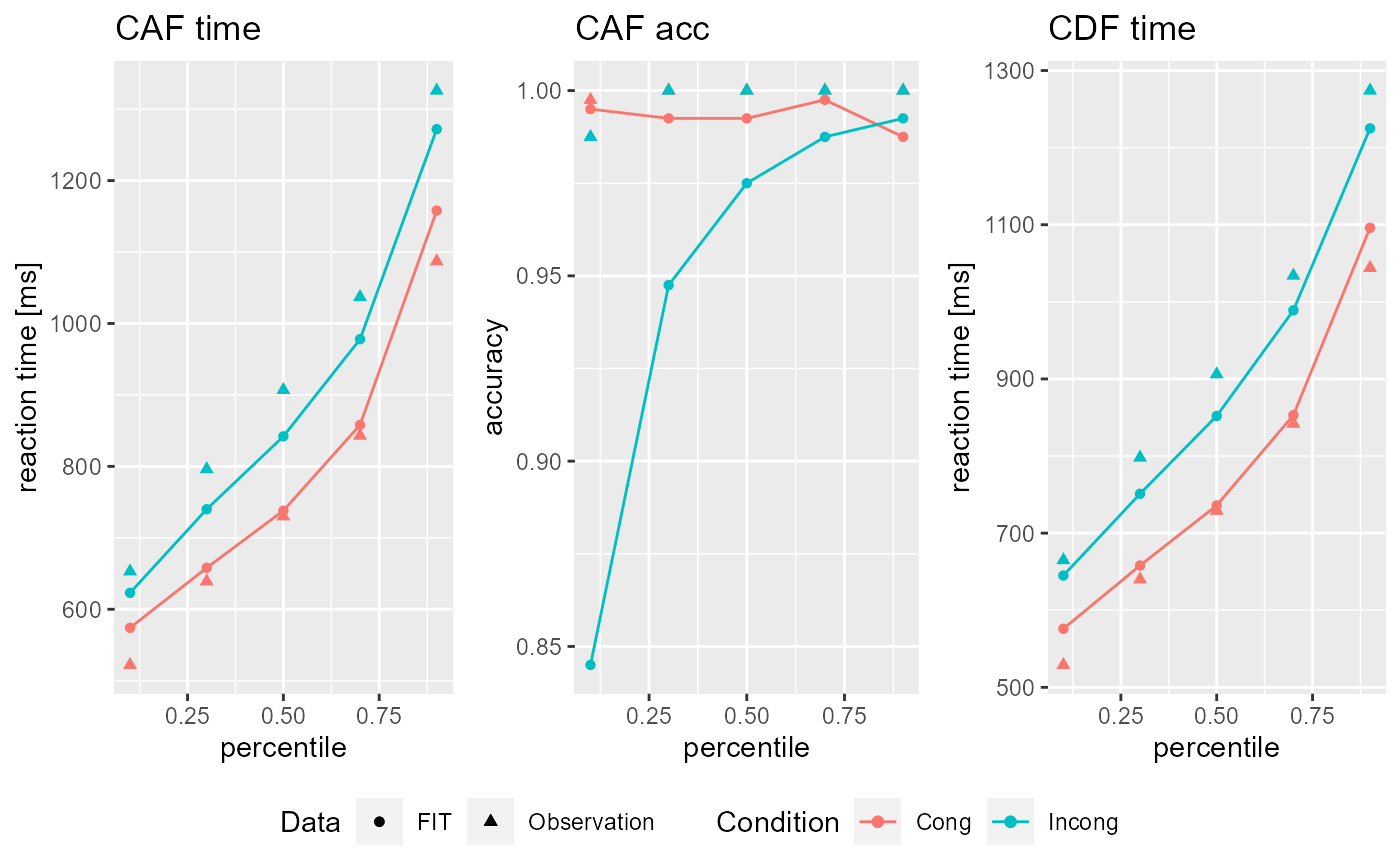
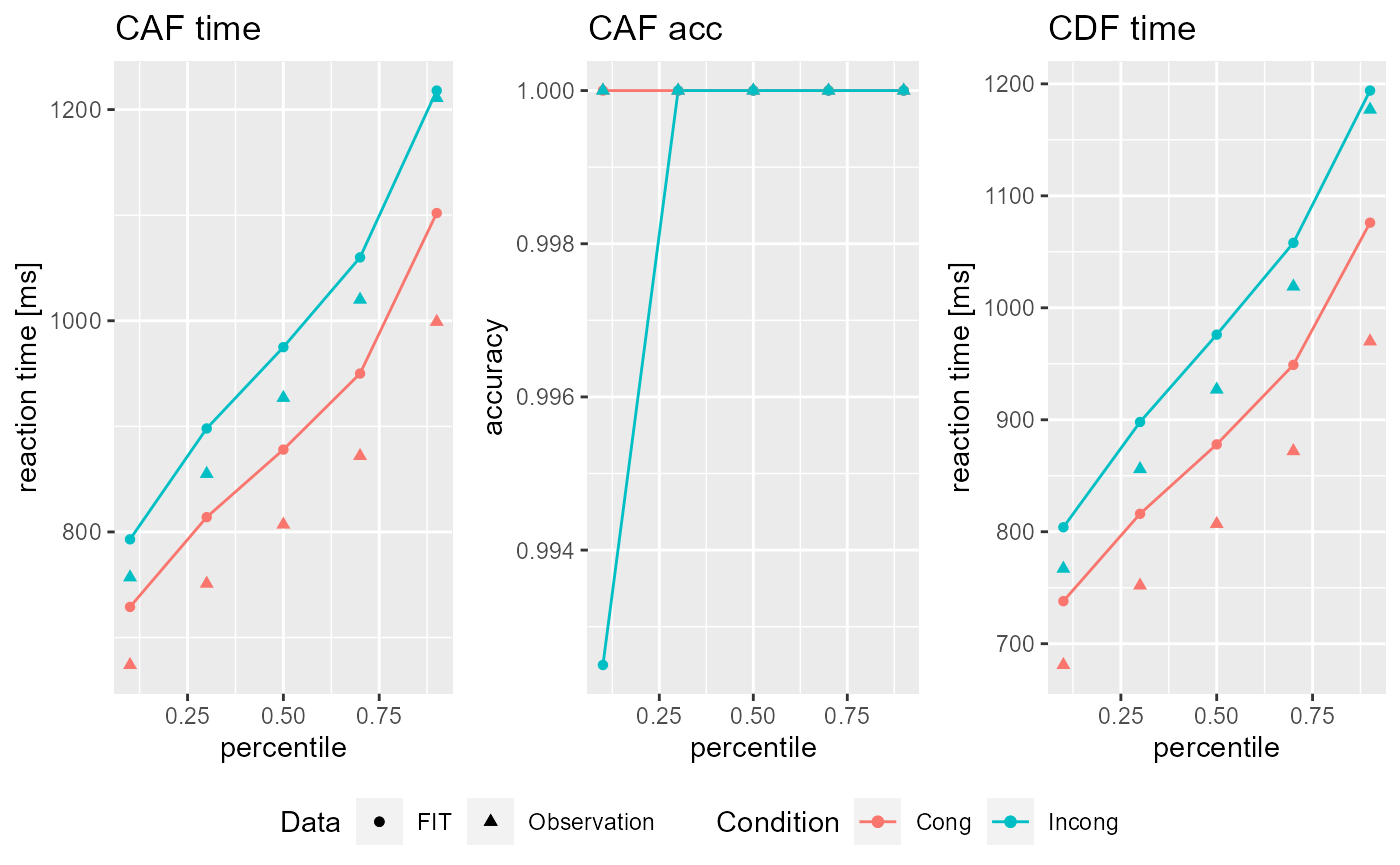
misc

diff --git a/docs/reference/DDModel.html b/docs/reference/DDModel.html
@@ -210,14 +210,14 @@ in the constructor (see usage or examples). Moreso after model construction one 
 your model befor computation. Custom models should only be used, if one knows exactly what he is doing!</p>
 
     <h2 class="hasAnchor" id="examples"><a class="anchor" href="#examples"></a>Examples</h2>
-    <pre class="examples"><div class='input'><span class='va'>M_DSTP</span> <span class='op'>&lt;-</span> <span class='fu'>DDModel</span><span class='op'>(</span>model<span class='op'>=</span><span class='st'>"DSTP"</span>,task <span class='op'>=</span> <span class='st'>"flanker"</span>,
+    <pre class="examples"><span class='va'>M_DSTP</span> <span class='op'>&lt;-</span> <span class='fu'>DDModel</span><span class='op'>(</span>model<span class='op'>=</span><span class='st'>"DSTP"</span>,task <span class='op'>=</span> <span class='st'>"flanker"</span>,
           CDF_perc <span class='op'>=</span> <span class='fu'><a href='https://rdrr.io/r/base/c.html'>c</a></span><span class='op'>(</span><span class='fl'>0.1</span>,<span class='fl'>0.3</span>,<span class='fl'>0.5</span>,<span class='fl'>0.7</span>,<span class='fl'>0.9</span><span class='op'>)</span>,CAF_perc <span class='op'>=</span> <span class='fu'><a href='https://rdrr.io/r/base/c.html'>c</a></span><span class='op'>(</span><span class='fl'>0.0</span>,<span class='fl'>0.2</span>,<span class='fl'>0.4</span>,<span class='fl'>0.6</span>,<span class='fl'>0.8</span>,<span class='fl'>1.0</span><span class='op'>)</span><span class='op'>)</span>
 <span class='va'>M_DMC</span>  <span class='op'>&lt;-</span> <span class='fu'>DDModel</span><span class='op'>(</span>model<span class='op'>=</span><span class='st'>"DMC"</span>,task <span class='op'>=</span> <span class='st'>"flanker"</span>,
           CDF_perc <span class='op'>=</span> <span class='fu'><a href='https://rdrr.io/r/base/c.html'>c</a></span><span class='op'>(</span><span class='fl'>0.1</span>,<span class='fl'>0.3</span>,<span class='fl'>0.5</span>,<span class='fl'>0.7</span>,<span class='fl'>0.9</span><span class='op'>)</span>,CAF_perc <span class='op'>=</span> <span class='fu'><a href='https://rdrr.io/r/base/c.html'>c</a></span><span class='op'>(</span><span class='fl'>0.0</span>,<span class='fl'>0.2</span>,<span class='fl'>0.4</span>,<span class='fl'>0.6</span>,<span class='fl'>0.8</span>,<span class='fl'>1.0</span><span class='op'>)</span><span class='op'>)</span>
 <span class='va'>M_Custom</span> <span class='op'>&lt;-</span> <span class='fu'>DDModel</span><span class='op'>(</span>model<span class='op'>=</span><span class='st'>"DSTP"</span>,task<span class='op'>=</span><span class='st'>"custom"</span>,
           CDF_perc <span class='op'>=</span> <span class='fu'><a href='https://rdrr.io/r/base/c.html'>c</a></span><span class='op'>(</span><span class='fl'>0.1</span>,<span class='fl'>0.3</span>,<span class='fl'>0.5</span>,<span class='fl'>0.7</span>,<span class='fl'>0.9</span><span class='op'>)</span>,CAF_perc <span class='op'>=</span> <span class='fu'><a href='https://rdrr.io/r/base/c.html'>c</a></span><span class='op'>(</span><span class='fl'>0.0</span>,<span class='fl'>0.2</span>,<span class='fl'>0.4</span>,<span class='fl'>0.6</span>,<span class='fl'>0.8</span>,<span class='fl'>1.0</span><span class='op'>)</span>,
           conditions<span class='op'>=</span><span class='st'>"single"</span>,parameter<span class='op'>=</span><span class='fu'><a href='https://rdrr.io/r/base/c.html'>c</a></span><span class='op'>(</span><span class='st'>"par_1"</span>,<span class='st'>"par_2"</span><span class='op'>)</span>,dt<span class='op'>=</span><span class='fl'>0.001</span>,sigma<span class='op'>=</span><span class='fl'>0.1</span><span class='op'>)</span>
-</div></pre>
+</pre>
   </div>
   <div class="col-md-3 hidden-xs hidden-sm" id="pkgdown-sidebar">
     <nav id="toc" data-toggle="toc" class="sticky-top">

diff --git a/docs/articles/Tutorials/Model_simulation.html b/docs/articles/Tutorials/Model_simulation.html
@@ -127,42 +127,42 @@
 <span class="co">#&gt; CDF: </span>
 <span class="co">#&gt; $Cong</span>
 <span class="co">#&gt;   cond perc time   N</span>
-<span class="co">#&gt; 1 Cong  0.1  270  99</span>
-<span class="co">#&gt; 2 Cong  0.3  321 297</span>
-<span class="co">#&gt; 3 Cong  0.5  377 496</span>
-<span class="co">#&gt; 4 Cong  0.7  452 695</span>
-<span class="co">#&gt; 5 Cong  0.9  630 893</span>
+<span class="co">#&gt; 1 Cong  0.1  413 100</span>
+<span class="co">#&gt; 2 Cong  0.3  470 300</span>
+<span class="co">#&gt; 3 Cong  0.5  523 500</span>
+<span class="co">#&gt; 4 Cong  0.7  589 700</span>
+<span class="co">#&gt; 5 Cong  0.9  676 900</span>
 <span class="co">#&gt; </span>
 <span class="co">#&gt; $Incong</span>
 <span class="co">#&gt;     cond perc time   N</span>
-<span class="co">#&gt; 1 Incong  0.1  471  59</span>
-<span class="co">#&gt; 2 Incong  0.3  595 179</span>
-<span class="co">#&gt; 3 Incong  0.5  698 298</span>
-<span class="co">#&gt; 4 Incong  0.7  810 417</span>
-<span class="co">#&gt; 5 Incong  0.9 1024 537</span>
+<span class="co">#&gt; 1 Incong  0.1  532  94</span>
+<span class="co">#&gt; 2 Incong  0.3  611 282</span>
+<span class="co">#&gt; 3 Incong  0.5  675 471</span>
+<span class="co">#&gt; 4 Incong  0.7  745 660</span>
+<span class="co">#&gt; 5 Incong  0.9  857 848</span>
 <span class="co">#&gt; </span>
 <span class="co">#&gt; </span>
 <span class="co">#&gt; CAF: </span>
 <span class="co">#&gt; $Cong</span>
-<span class="co">#&gt;   cond perc time   acc N_A N_B</span>
-<span class="co">#&gt; 1 Cong  0.1  269 0.985 197   3</span>
-<span class="co">#&gt; 2 Cong  0.3  324 1.000 200   0</span>
-<span class="co">#&gt; 3 Cong  0.5  379 1.000 200   0</span>
-<span class="co">#&gt; 4 Cong  0.7  454 0.995 199   1</span>
-<span class="co">#&gt; 5 Cong  0.9  684 0.985 197   3</span>
+<span class="co">#&gt;   cond perc time acc N_A N_B</span>
+<span class="co">#&gt; 1 Cong  0.1  408   1 200   0</span>
+<span class="co">#&gt; 2 Cong  0.3  471   1 200   0</span>
+<span class="co">#&gt; 3 Cong  0.5  523   1 200   0</span>
+<span class="co">#&gt; 4 Cong  0.7  586   1 200   0</span>
+<span class="co">#&gt; 5 Cong  0.9  696   1 200   0</span>
 <span class="co">#&gt; </span>
 <span class="co">#&gt; $Incong</span>
 <span class="co">#&gt;     cond perc time   acc N_A N_B</span>
-<span class="co">#&gt; 1 Incong  0.1  313 0.080  16 184</span>
-<span class="co">#&gt; 2 Incong  0.3  431 0.275  55 145</span>
-<span class="co">#&gt; 3 Incong  0.5  555 0.715 143  57</span>
-<span class="co">#&gt; 4 Incong  0.7  705 0.940 188  12</span>
-<span class="co">#&gt; 5 Incong  0.9  988 0.975 195   5</span>
+<span class="co">#&gt; 1 Incong  0.1  493 0.735 147  53</span>
+<span class="co">#&gt; 2 Incong  0.3  597 0.990 198   2</span>
+<span class="co">#&gt; 3 Incong  0.5  666 1.000 200   0</span>
+<span class="co">#&gt; 4 Incong  0.7  741 0.990 198   2</span>
+<span class="co">#&gt; 5 Incong  0.9  880 1.000 200   0</span>
 <span class="co">#&gt; </span>
 <span class="co">#&gt; </span>
 <span class="co">#&gt; Parameter: </span>
-<span class="co">#&gt;         Ter         a         c      mu_t      mu_f    mu_RS2     mu_SS</span>
-<span class="co">#&gt; 1 0.1782397 0.1548464 0.3676216 0.1052074 0.2465462 0.2765454 0.6640582</span></pre></div>
+<span class="co">#&gt;         Ter         a         c      mu_t     mu_f    mu_RS2     mu_SS</span>
+<span class="co">#&gt; 1 0.2496643 0.2158261 0.3690694 0.1317282 0.191887 0.5343007 0.8152974</span></pre></div>
 <p>or using <code><a href="../../reference/plot,DDRep,ANY-method.html">plot()</a></code></p>
 <div class="sourceCode" id="cb4"><pre class="downlit">
 <span class="fu"><a href="../../reference/plot,DDRep,ANY-method.html">plot</a></span><span class="op">(</span><span class="va">some_data</span><span class="op">)</span></pre></div>

diff --git a/docs/articles/Tutorials/Fitting_models.html b/docs/articles/Tutorials/Fitting_models.html
@@ -137,34 +137,34 @@
 <span class="fu"><a href="../../reference/summary,DDFit-method.html">summary</a></span><span class="op">(</span><span class="va">Fit_rand_1</span><span class="op">)</span>
 <span class="co">#&gt; $INPUT_Par</span>
 <span class="co">#&gt;         Ter         a         c      mu_t      mu_f    mu_RS2     mu_SS</span>
-<span class="co">#&gt; 1 0.2242778 0.3337576 0.3341687 0.1339873 0.1318217 0.3489679 0.7015115</span>
+<span class="co">#&gt; 1 0.4242641 0.3480561 0.2003661 0.1497606 0.1814789 0.5145595 0.5873838</span>
 <span class="co">#&gt; </span>
 <span class="co">#&gt; $FIT_Par</span>
-<span class="co">#&gt;         Ter         a         c      mu_t       mu_f    mu_RS2    mu_SS</span>
-<span class="co">#&gt; 1 0.4196422 0.1853155 0.2136073 0.1298089 0.09553358 0.2675269 0.555338</span>
+<span class="co">#&gt;         Ter         a         c      mu_t      mu_f mu_RS2     mu_SS</span>
+<span class="co">#&gt; 1 0.3944843 0.3278884 0.3374542 0.0698164 0.1080059   0.55 0.7627485</span>
 <span class="co">#&gt; </span>
 <span class="co">#&gt; $Eta</span>
-<span class="co">#&gt;         Ter         a         c       mu_t      mu_f    mu_RS2     mu_SS</span>
-<span class="co">#&gt; 1 0.6512147 0.6185088 0.5023392 0.04178345 0.1814406 0.2714699 0.1827169</span>
+<span class="co">#&gt;          Ter          a         c     mu_t     mu_f    mu_RS2     mu_SS</span>
+<span class="co">#&gt; 1 0.09926594 0.08403182 0.5712004 0.799442 0.367365 0.1181351 0.2192058</span>
 <span class="co">#&gt; </span>
 <span class="co">#&gt; $mean_Eta</span>
-<span class="co">#&gt; [1] 0.3499248</span>
+<span class="co">#&gt; [1] 0.3226637</span>
 <span class="co">#&gt; </span>
 <span class="co">#&gt; $Fit</span>
-<span class="co">#&gt; [1] 0.05700145</span>
+<span class="co">#&gt; [1] 0.01019478</span>
 <span class="fu"><a href="../../reference/plot,DDRep,ANY-method.html">plot</a></span><span class="op">(</span><span class="va">Fit_rand_1</span><span class="op">)</span>
-<span class="co">#&gt; Fit: 0.05700145</span></pre></div>
+<span class="co">#&gt; Fit: 0.01019478</span></pre></div>
 <p><img src="Fitting_models_files/figure-html/unnamed-chunk-3-1.png" width="700"></p>
 <div class="sourceCode" id="cb4"><pre class="downlit">
 
 <span class="va">Fit_rand_1</span><span class="op">@</span><span class="va">FIT</span><span class="op">@</span><span class="va">FIT_V</span>
-<span class="co">#&gt; [1] 0.05700145</span>
+<span class="co">#&gt; [1] 0.01019478</span>
 <span class="va">Fit_rand_2</span><span class="op">@</span><span class="va">FIT</span><span class="op">@</span><span class="va">FIT_V</span>
-<span class="co">#&gt; [1] 0.008473697</span>
+<span class="co">#&gt; [1] 0.01245212</span>
 <span class="va">Fit_rand_3</span><span class="op">@</span><span class="va">FIT</span><span class="op">@</span><span class="va">FIT_V</span>
-<span class="co">#&gt; [1] 0.002523199</span>
+<span class="co">#&gt; [1] 0.001489637</span>
 <span class="va">Fit_rand_4</span><span class="op">@</span><span class="va">FIT</span><span class="op">@</span><span class="va">FIT_V</span>
-<span class="co">#&gt; [1] 0.000868225</span></pre></div>
+<span class="co">#&gt; [1] 0.008842603</span></pre></div>
 <p>Note how the fit gets better the more sophisticated the SIMPLEX structure gets! However DDModeling does not stop here, let us take a look at more complex solutions for the starting values!</p>
 </div>
 <div id="grid-simplex" class="section level1">

diff --git a/docs/reference/Sim_DDModel.html b/docs/reference/Sim_DDModel.html
@@ -182,14 +182,14 @@
 Depending on the input the return value will be either a <code>DDRep</code>, <code>list</code> or <code>list</code> of <code>lists</code>.</p>
 
     <h2 class="hasAnchor" id="examples"><a class="anchor" href="#examples"></a>Examples</h2>
-    <pre class="examples"><div class='input'><span class='co'># Define a Model</span>
+    <pre class="examples"><span class='co'># Define a Model</span>
 <span class='va'>M1</span> <span class='op'>&lt;-</span> <span class='fu'><a href='DDModel.html'>DDModel</a></span><span class='op'>(</span>model<span class='op'>=</span><span class='st'>"DSTP"</span>,task <span class='op'>=</span> <span class='st'>"flanker"</span>,
           CDF_perc <span class='op'>=</span> <span class='fu'><a href='https://rdrr.io/r/base/c.html'>c</a></span><span class='op'>(</span><span class='fl'>0.1</span>,<span class='fl'>0.3</span>,<span class='fl'>0.5</span>,<span class='fl'>0.7</span>,<span class='fl'>0.9</span><span class='op'>)</span>,CAF_perc <span class='op'>=</span> <span class='fu'><a href='https://rdrr.io/r/base/c.html'>c</a></span><span class='op'>(</span><span class='fl'>0.0</span>,<span class='fl'>0.2</span>,<span class='fl'>0.4</span>,<span class='fl'>0.6</span>,<span class='fl'>0.8</span>,<span class='fl'>1.0</span><span class='op'>)</span><span class='op'>)</span>
 <span class='co'># Simulate some Data with randomly generated parameters in the domain of M1</span>
 <span class='va'>R1</span> <span class='op'>&lt;-</span> <span class='fu'>Sim_DDModel</span><span class='op'>(</span><span class='va'>M1</span>,<span class='fl'>10000L</span><span class='op'>)</span>
 <span class='co'># If you want to reuse the randomly drawn parameters (or any other) simply insert them</span>
 <span class='va'>R2</span> <span class='op'>&lt;-</span> <span class='fu'>Sim_DDModel</span><span class='op'>(</span><span class='va'>M1</span>,<span class='fl'>10000L</span>,parameter <span class='op'>=</span> <span class='va'>R1</span><span class='op'>@</span><span class='va'>PAR</span><span class='op'>)</span>
-</div></pre>
+</pre>
   </div>
   <div class="col-md-3 hidden-xs hidden-sm" id="pkgdown-sidebar">
     <nav id="toc" data-toggle="toc" class="sticky-top">

diff --git a/docs/news/index.html b/docs/news/index.html
@@ -148,7 +148,7 @@
 <h1 class="page-header" data-toc-text="0.0.2.0">
 <a href="#ddmodeling-0020" class="anchor"></a>DDModeling 0.0.2.0</h1>
 <ul>
-<li>Added functionality to perform modeling using the classic drift diffusion model (see <a href="https://doi.org/10.1037/0033-295X.85.2.59">here</a>)
+<li>Added functionality to perform modelling using the classic drift diffusion model (see <a href="https://doi.org/10.1037/0033-295X.85.2.59">here</a>)
 <ul>
 <li>set ‘model=“DDM_classic”’ in DDModel</li>
 </ul>
@@ -170,7 +170,7 @@
 <h2 class="hasAnchor">
 <a href="#ddmodeling-0014" class="anchor"></a>DDModeling 0.0.1.4</h2>
 <ul>
-<li>Several performace improvements (especially to GRID_Import)</li>
+<li>Several performance improvements (especially to GRID_Import)</li>
 <li>Added ability to tune SIMPLEX parameters in Fit_DDModel (see new argument simplex_coef)</li>
 <li>Added a Compare generic method to DDRep</li>
 </ul>
@@ -179,7 +179,13 @@
 <h2 class="hasAnchor">
 <a href="#ddmodeling-0013" class="anchor"></a>DDModeling 0.0.1.3</h2>
 <ul>
-<li>Added functionality for fitting with deep learning networks in Fit_DDModel</li>
+<li>Added multi thread support to several functions!
+<ul>
+<li>Defaults to k-1 threads where k is the maximum number of threads available to the system</li>
+</ul>
+</li>
+<li>Added functionality for fitting with deep learning methods in Fit_DDModel</li>
+<li>Added functionality to easily convert GRIDs into datasets suitable for the training of neural networks using deep learning methods</li>
 </ul>
 </div>
 <div id="ddmodeling-0012" class="section level2">

diff --git a/docs/index.html b/docs/index.html
@@ -105,7 +105,7 @@
 <a href="#ddmodeling" class="anchor"></a>DDModeling</h1></div>
 <!-- badges: start -->
 <!-- badges: end -->
-<p>DDModeling is a R-package. It’s goal is to give researchers access to an easy to use toolset for simulating and fitting drift diffusion models in cognitive psychology.</p>
+<p>DDModeling is an R packet. Its goal is to give researchers access to an easy-to-use toolkit for the simulation and adaptation of drift-diffusion models in cognitive psychology.</p>
 <div id="installation" class="section level2">
 <h2 class="hasAnchor">
 <a href="#installation" class="anchor"></a>Installation</h2>

diff --git a/README.md b/README.md
@@ -4,7 +4,7 @@
 
 <!-- badges: start -->
 <!-- badges: end -->
-DDModeling is a R-package. It's goal is to give researchers access to an easy to use toolset for simulating and fitting drift diffusion models in cognitive psychology.
+DDModeling is an R packet. Its goal is to give researchers access to an easy-to-use toolkit for the simulation and adaptation of drift-diffusion models in cognitive psychology.
 
 ## Installation
 
